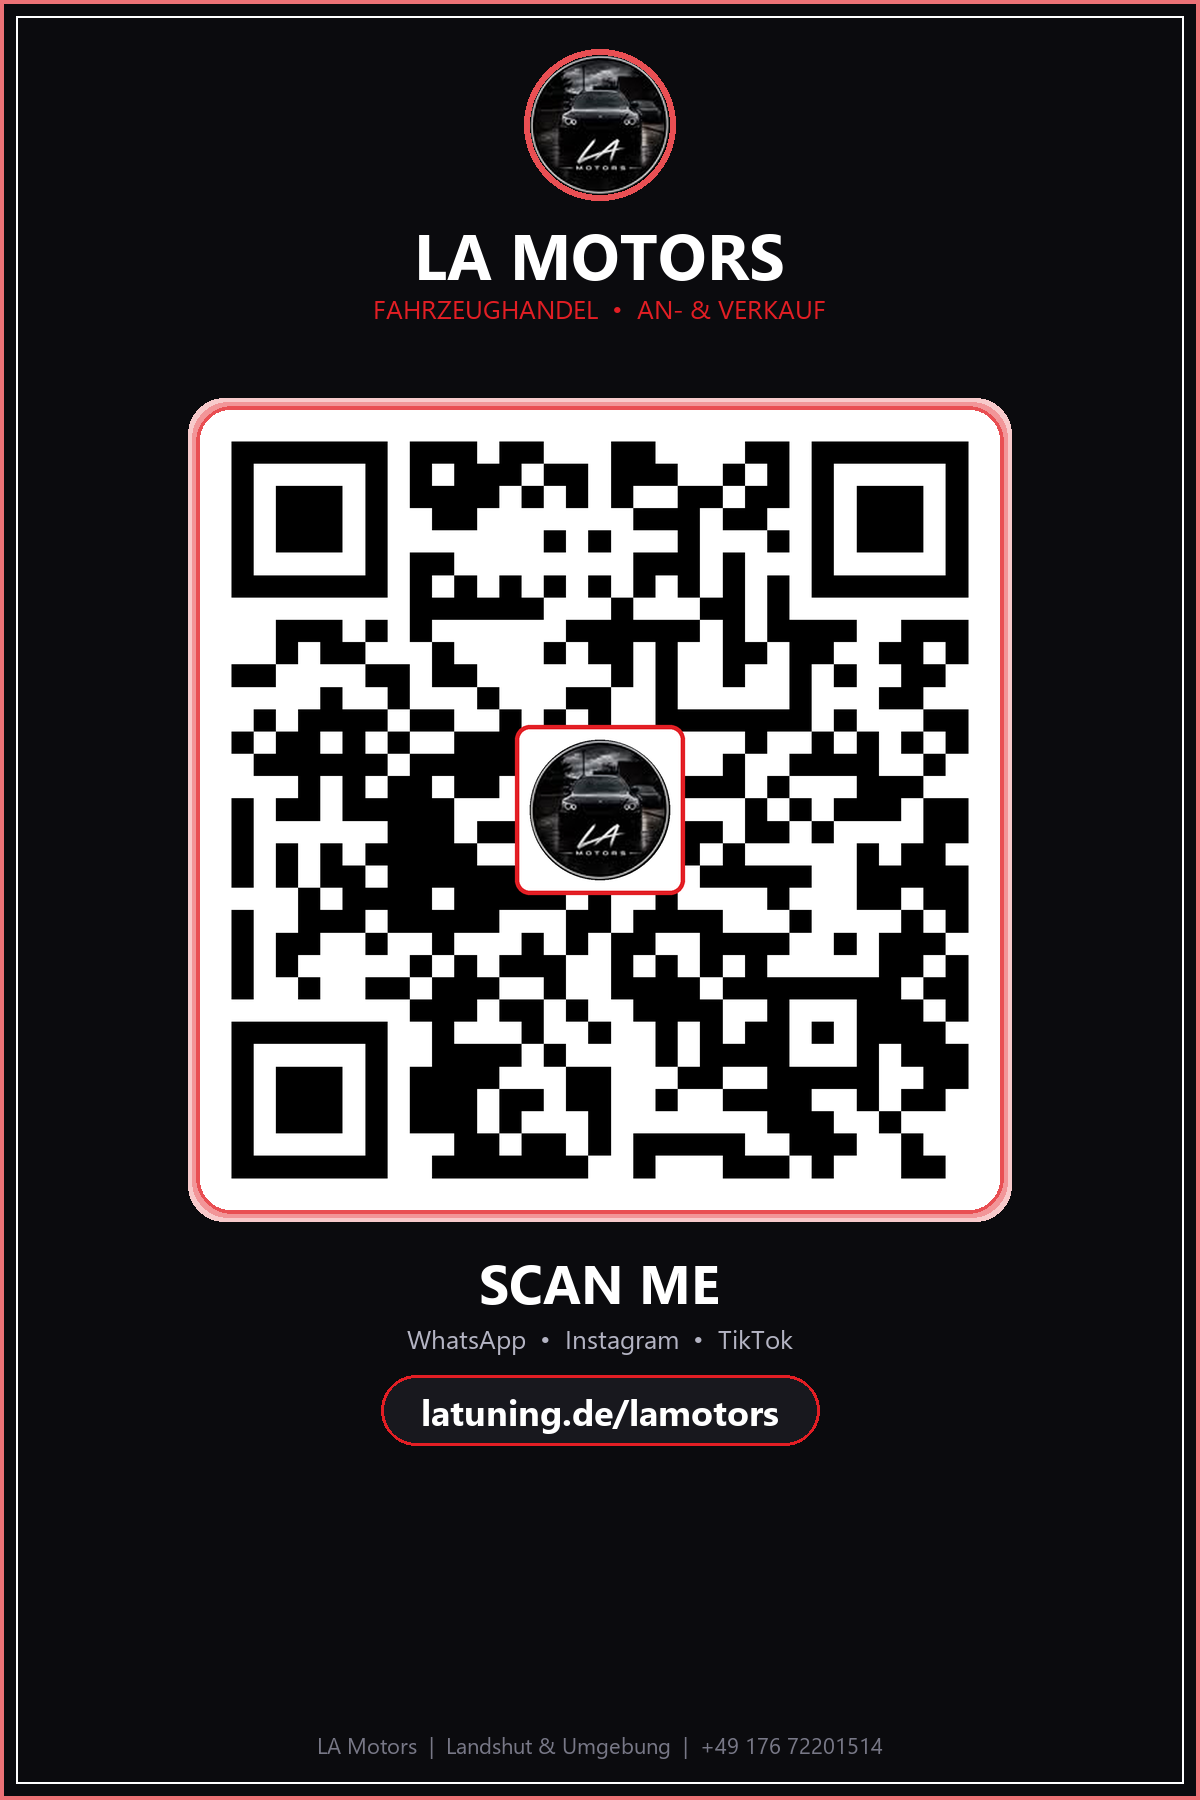
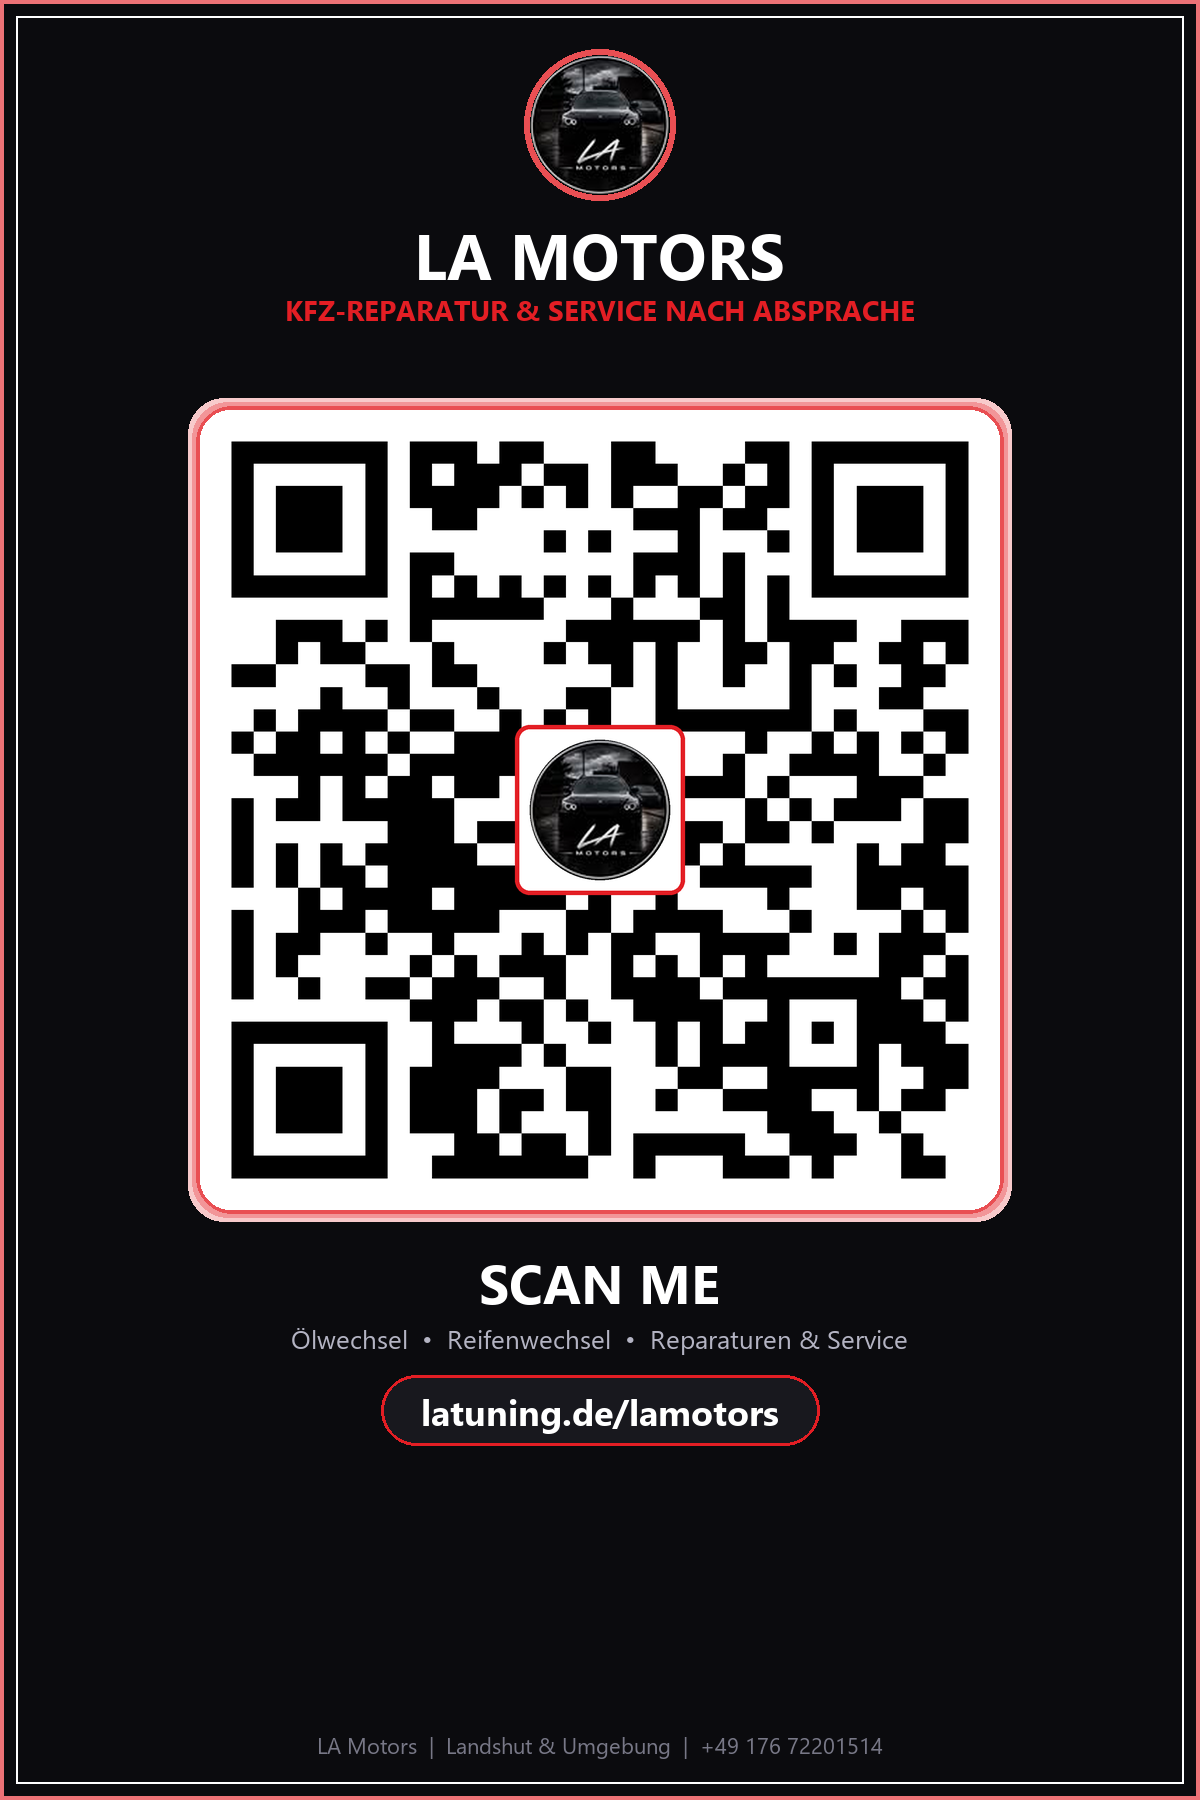
Update LA Motors Linktree: focus on car repairs, oil service, tire change and custom repairs

diff --git a/lamotors.html b/lamotors.html
@@ -3,20 +3,20 @@
 <head>
     <meta charset="UTF-8">
     <meta name="viewport" content="width=device-width, initial-scale=1.0, maximum-scale=5.0">
-    <title>LA Motors | Offizielle Links – Instagram, TikTok &amp; WhatsApp</title>
-    <meta name="description" content="Alle offiziellen Kanäle von LA Motors Landshut auf einen Blick: WhatsApp-Chat, Instagram, TikTok, Fahrzeughandel &amp; direkter Kontakt.">
+    <title>LA Motors | Kfz-Reparaturen &amp; Autoservice nach Absprache</title>
+    <meta name="description" content="Kfz-Reparaturen &amp; Autoservice nach Absprache in Landshut &amp; Umgebung: Inspektion, Ölwechsel, Reifenwechsel &amp; größere Reparaturen. Direkt anfragen via WhatsApp.">
     <meta name="robots" content="noindex, follow">
     <link rel="canonical" href="https://www.latuning.de/lamotors">
 
     <!-- Open Graph / Social Sharing -->
     <meta property="og:type" content="website">
     <meta property="og:url" content="https://www.latuning.de/lamotors">
-    <meta property="og:title" content="LA Motors | Offizielle Links">
-    <meta property="og:description" content="Fahrzeughandel, An- &amp; Verkauf in Landshut &amp; Umgebung. Kontaktiere uns direkt per WhatsApp, Instagram oder TikTok.">
+    <meta property="og:title" content="LA Motors | Kfz-Reparaturen &amp; Service">
+    <meta property="og:description" content="Kfz-Reparaturen &amp; Autoservice nach Absprache in Landshut &amp; Umgebung: Ölwechsel, Reifenwechsel, Inspektion &amp; größere Reparaturen.">
     <meta property="og:image" content="https://www.latuning.de/img/hero.png">
     <meta name="twitter:card" content="summary_large_image">
-    <meta name="twitter:title" content="LA Motors | Offizielle Links">
-    <meta name="twitter:description" content="Alle offiziellen Social-Media- &amp; Kontakt-Kanäle von LA Motors auf einen Blick.">
+    <meta name="twitter:title" content="LA Motors | Kfz-Reparaturen &amp; Service">
+    <meta name="twitter:description" content="Kfz-Reparaturen &amp; Autoservice nach Absprache in Landshut &amp; Umgebung: Ölwechsel, Reifenwechsel &amp; Reparaturen aller Art.">
     <meta name="twitter:image" content="https://www.latuning.de/img/hero.png">
 
     <!-- Favicon -->
@@ -660,13 +660,14 @@
             </h1>
 
             <p class="profile-tagline">
-                Fahrzeughandel, An- &amp; Verkauf &amp; Mobilität in Landshut &amp; Umgebung.
+                Kfz-Reparaturen &amp; Autoservice nach Absprache in Landshut &amp; Umgebung.
             </p>
 
             <div class="profile-badges">
-                <span class="badge-pill highlight">🏎 An- &amp; Verkauf</span>
-                <span class="badge-pill">📍 Landshut &amp; Umgebung</span>
-                <span class="badge-pill">⚡ Partner von LA Tuning</span>
+                <span class="badge-pill highlight">🔧 Reparaturen nach Absprache</span>
+                <span class="badge-pill">🛢 Ölwechsel &amp; Service</span>
+                <span class="badge-pill">🛞 Reifenwechsel</span>
+                <span class="badge-pill">⚙ Auch größere Reparaturen</span>
             </div>
         </header>
 
@@ -674,7 +675,7 @@
         <main class="links-list">
 
             <!-- 1. WHATSAPP (PRIMARY CALL TO ACTION) -->
-            <a href="https://wa.me/4917672201514?text=Hallo%20LA%20Motors%2C%20ich%20habe%20eure%20Links%20gesehen%20und%20interessiere%20mich%20f%C3%BCr%20eure%20Fahrzeuge%20%2F%20Angebote." 
+            <a href="https://wa.me/4917672201514?text=Hallo%20LA%20Motors%2C%20ich%20ben%C3%B6tige%20eine%20Kfz-Reparatur%20%2F%20Service%20(z.%20B.%20%C3%96lwechsel%2C%20Reifen%2C%20Inspektion%20oder%20gr%C3%B6%C3%9Fere%20Reparatur)." 
                class="link-card card-whatsapp" 
                target="_blank" 
                rel="noopener noreferrer">
@@ -685,10 +686,10 @@
                 </div>
                 <div class="card-content">
                     <div class="card-title-row">
-                        <span class="card-title">WhatsApp Chat &amp; Anfragen</span>
+                        <span class="card-title">WhatsApp Reparatur- &amp; Serviceanfrage</span>
                         <span class="card-badge badge-live">Online</span>
                     </div>
-                    <p class="card-subtitle">Fahrzeuganfragen, Ankauf &amp; Termine</p>
+                    <p class="card-subtitle">Ölwechsel, Reifen, Inspektion &amp; Reparaturen anfragen</p>
                 </div>
                 <div class="card-arrow">
                     <svg viewBox="0 0 24 24" width="20" height="20" fill="none" stroke="currentColor" stroke-width="2.5" stroke-linecap="round" stroke-linejoin="round">
@@ -697,7 +698,29 @@
                 </div>
             </a>
 
-            <!-- 2. INSTAGRAM -->
+            <!-- 2. LEISTUNGEN & REPARATUREN -->
+            <a href="https://wa.me/4917672201514?text=Hallo%20LA%20Motors%2C%20ich%20m%C3%B6chte%20mich%20nach%20folgender%20Reparatur%20%2F%20Leistung%20erkundigen%3A" 
+               class="link-card card-partner">
+                <div class="card-icon">
+                    <svg viewBox="0 0 24 24" fill="none" stroke="currentColor" stroke-width="2" stroke-linecap="round" stroke-linejoin="round">
+                        <path d="M14.7 6.3a1 1 0 0 0 0 1.4l1.6 1.6a1 1 0 0 0 1.4 0l3.77-3.77a6 6 0 0 1-7.94 7.94l-6.91 6.91a2.12 2.12 0 0 1-3-3l6.91-6.91a6 6 0 0 1 7.94-7.94l-3.76 3.76z"></path>
+                    </svg>
+                </div>
+                <div class="card-content">
+                    <div class="card-title-row">
+                        <span class="card-title">Reparaturen &amp; Service</span>
+                        <span class="card-badge badge-hot">Nach Absprache</span>
+                    </div>
+                    <p class="card-subtitle">Ölwechsel, Reifen, Service, Bremsen &amp; Großreparaturen</p>
+                </div>
+                <div class="card-arrow">
+                    <svg viewBox="0 0 24 24" width="20" height="20" fill="none" stroke="currentColor" stroke-width="2.5" stroke-linecap="round" stroke-linejoin="round">
+                        <polyline points="9 18 15 12 9 6"></polyline>
+                    </svg>
+                </div>
+            </a>
+
+            <!-- 3. INSTAGRAM -->
             <a href="https://www.instagram.com/la_motors_landshut/" 
                class="link-card card-instagram" 
                target="_blank" 
@@ -713,7 +736,7 @@
                     <div class="card-title-row">
                         <span class="card-title">Instagram (@la_motors_landshut)</span>
                     </div>
-                    <p class="card-subtitle">Aktueller Fahrzeugbestand &amp; Stories</p>
+                    <p class="card-subtitle">Werkstatt-Einblicke, Reparaturen &amp; Stories</p>
                 </div>
                 <div class="card-arrow">
                     <svg viewBox="0 0 24 24" width="20" height="20" fill="none" stroke="currentColor" stroke-width="2.5" stroke-linecap="round" stroke-linejoin="round">
@@ -722,7 +745,7 @@
                 </div>
             </a>
 
-            <!-- 3. TIKTOK -->
+            <!-- 4. TIKTOK -->
             <a href="https://www.tiktok.com/@la_motorss?_r=1&amp;_t=ZG-9ArXKbK0Mm9" 
                class="link-card card-tiktok" 
                target="_blank" 
@@ -736,7 +759,7 @@
                     <div class="card-title-row">
                         <span class="card-title">TikTok (@la_motorss)</span>
                     </div>
-                    <p class="card-subtitle">Fahrzeug-Clips, Sound &amp; Videos</p>
+                    <p class="card-subtitle">Werkstatt-Videos, Reparatur-Clips &amp; Sound</p>
                 </div>
                 <div class="card-arrow">
                     <svg viewBox="0 0 24 24" width="20" height="20" fill="none" stroke="currentColor" stroke-width="2.5" stroke-linecap="round" stroke-linejoin="round">
@@ -745,7 +768,7 @@
                 </div>
             </a>
 
-            <!-- 4. DIREKTER ANRUF -->
+            <!-- 5. DIREKTER ANRUF -->
             <a href="tel:+4917672201514" 
                class="link-card">
                 <div class="card-icon">
@@ -757,7 +780,7 @@
                     <div class="card-title-row">
                         <span class="card-title">Direkt anrufen</span>
                     </div>
-                    <p class="card-subtitle">+49 176 72201514 (Schneller Kontakt)</p>
+                    <p class="card-subtitle">+49 176 72201514 (Terminabsprache)</p>
                 </div>
                 <div class="card-arrow">
                     <svg viewBox="0 0 24 24" width="20" height="20" fill="none" stroke="currentColor" stroke-width="2.5" stroke-linecap="round" stroke-linejoin="round">
@@ -766,9 +789,9 @@
                 </div>
             </a>
 
-            <!-- 5. PARTNER: LA TUNING -->
+            <!-- 6. PARTNER: LA TUNING -->
             <a href="https://www.latuning.de/" 
-               class="link-card card-partner">
+               class="link-card">
                 <div class="card-icon">
                     <svg viewBox="0 0 24 24" fill="none" stroke="currentColor" stroke-width="2.5" stroke-linecap="round" stroke-linejoin="round">
                         <polygon points="13 2 3 14 12 14 11 22 21 10 12 10 13 2"></polygon>
@@ -776,8 +799,7 @@
                 </div>
                 <div class="card-content">
                     <div class="card-title-row">
-                        <span class="card-title">LA Tuning | Leistungssteigerung</span>
-                        <span class="card-badge badge-hot">Partner</span>
+                        <span class="card-title">Partner: LA Tuning</span>
                     </div>
                     <p class="card-subtitle">Chiptuning, Stage 1/2 &amp; Fahrzeug-Konfigurator</p>
                 </div>
@@ -797,9 +819,10 @@
                     <path d="M21 10c0 7-9 13-9 13s-9-6-9-13a9 9 0 0 1-18 0z"></path>
                     <circle cx="12" cy="10" r="3"></circle>
                 </svg>
-                Standort Landshut &amp; Umgebung
+                Kfz-Service &amp; Reparatur nach Absprache
             </div>
             <p class="info-meta">
+                Landshut &amp; Umgebung<br>
                 Telefon &amp; WhatsApp: <a href="tel:+4917672201514">+49 176 72201514</a><br>
                 E-Mail: <a href="mailto:la_tuning@outlook.com">la_tuning@outlook.com</a>
             </p>

diff --git a/lamotors/index.html b/lamotors/index.html
@@ -3,20 +3,20 @@
 <head>
     <meta charset="UTF-8">
     <meta name="viewport" content="width=device-width, initial-scale=1.0, maximum-scale=5.0">
-    <title>LA Motors | Offizielle Links – Instagram, TikTok &amp; WhatsApp</title>
-    <meta name="description" content="Alle offiziellen Kanäle von LA Motors Landshut auf einen Blick: WhatsApp-Chat, Instagram, TikTok, Fahrzeughandel &amp; direkter Kontakt.">
+    <title>LA Motors | Kfz-Reparaturen &amp; Autoservice nach Absprache</title>
+    <meta name="description" content="Kfz-Reparaturen &amp; Autoservice nach Absprache in Landshut &amp; Umgebung: Inspektion, Ölwechsel, Reifenwechsel &amp; größere Reparaturen. Direkt anfragen via WhatsApp.">
     <meta name="robots" content="noindex, follow">
     <link rel="canonical" href="https://www.latuning.de/lamotors">
 
     <!-- Open Graph / Social Sharing -->
     <meta property="og:type" content="website">
     <meta property="og:url" content="https://www.latuning.de/lamotors">
-    <meta property="og:title" content="LA Motors | Offizielle Links">
-    <meta property="og:description" content="Fahrzeughandel, An- &amp; Verkauf in Landshut &amp; Umgebung. Kontaktiere uns direkt per WhatsApp, Instagram oder TikTok.">
+    <meta property="og:title" content="LA Motors | Kfz-Reparaturen &amp; Service">
+    <meta property="og:description" content="Kfz-Reparaturen &amp; Autoservice nach Absprache in Landshut &amp; Umgebung: Ölwechsel, Reifenwechsel, Inspektion &amp; größere Reparaturen.">
     <meta property="og:image" content="https://www.latuning.de/img/hero.png">
     <meta name="twitter:card" content="summary_large_image">
-    <meta name="twitter:title" content="LA Motors | Offizielle Links">
-    <meta name="twitter:description" content="Alle offiziellen Social-Media- &amp; Kontakt-Kanäle von LA Motors auf einen Blick.">
+    <meta name="twitter:title" content="LA Motors | Kfz-Reparaturen &amp; Service">
+    <meta name="twitter:description" content="Kfz-Reparaturen &amp; Autoservice nach Absprache in Landshut &amp; Umgebung: Ölwechsel, Reifenwechsel &amp; Reparaturen aller Art.">
     <meta name="twitter:image" content="https://www.latuning.de/img/hero.png">
 
     <!-- Favicon -->
@@ -660,13 +660,14 @@
             </h1>
 
             <p class="profile-tagline">
-                Fahrzeughandel, An- &amp; Verkauf &amp; Mobilität in Landshut &amp; Umgebung.
+                Kfz-Reparaturen &amp; Autoservice nach Absprache in Landshut &amp; Umgebung.
             </p>
 
             <div class="profile-badges">
-                <span class="badge-pill highlight">🏎 An- &amp; Verkauf</span>
-                <span class="badge-pill">📍 Landshut &amp; Umgebung</span>
-                <span class="badge-pill">⚡ Partner von LA Tuning</span>
+                <span class="badge-pill highlight">🔧 Reparaturen nach Absprache</span>
+                <span class="badge-pill">🛢 Ölwechsel &amp; Service</span>
+                <span class="badge-pill">🛞 Reifenwechsel</span>
+                <span class="badge-pill">⚙ Auch größere Reparaturen</span>
             </div>
         </header>
 
@@ -674,7 +675,7 @@
         <main class="links-list">
 
             <!-- 1. WHATSAPP (PRIMARY CALL TO ACTION) -->
-            <a href="https://wa.me/4917672201514?text=Hallo%20LA%20Motors%2C%20ich%20habe%20eure%20Links%20gesehen%20und%20interessiere%20mich%20f%C3%BCr%20eure%20Fahrzeuge%20%2F%20Angebote." 
+            <a href="https://wa.me/4917672201514?text=Hallo%20LA%20Motors%2C%20ich%20ben%C3%B6tige%20eine%20Kfz-Reparatur%20%2F%20Service%20(z.%20B.%20%C3%96lwechsel%2C%20Reifen%2C%20Inspektion%20oder%20gr%C3%B6%C3%9Fere%20Reparatur)." 
                class="link-card card-whatsapp" 
                target="_blank" 
                rel="noopener noreferrer">
@@ -685,10 +686,10 @@
                 </div>
                 <div class="card-content">
                     <div class="card-title-row">
-                        <span class="card-title">WhatsApp Chat &amp; Anfragen</span>
+                        <span class="card-title">WhatsApp Reparatur- &amp; Serviceanfrage</span>
                         <span class="card-badge badge-live">Online</span>
                     </div>
-                    <p class="card-subtitle">Fahrzeuganfragen, Ankauf &amp; Termine</p>
+                    <p class="card-subtitle">Ölwechsel, Reifen, Inspektion &amp; Reparaturen anfragen</p>
                 </div>
                 <div class="card-arrow">
                     <svg viewBox="0 0 24 24" width="20" height="20" fill="none" stroke="currentColor" stroke-width="2.5" stroke-linecap="round" stroke-linejoin="round">
@@ -697,7 +698,29 @@
                 </div>
             </a>
 
-            <!-- 2. INSTAGRAM -->
+            <!-- 2. LEISTUNGEN & REPARATUREN -->
+            <a href="https://wa.me/4917672201514?text=Hallo%20LA%20Motors%2C%20ich%20m%C3%B6chte%20mich%20nach%20folgender%20Reparatur%20%2F%20Leistung%20erkundigen%3A" 
+               class="link-card card-partner">
+                <div class="card-icon">
+                    <svg viewBox="0 0 24 24" fill="none" stroke="currentColor" stroke-width="2" stroke-linecap="round" stroke-linejoin="round">
+                        <path d="M14.7 6.3a1 1 0 0 0 0 1.4l1.6 1.6a1 1 0 0 0 1.4 0l3.77-3.77a6 6 0 0 1-7.94 7.94l-6.91 6.91a2.12 2.12 0 0 1-3-3l6.91-6.91a6 6 0 0 1 7.94-7.94l-3.76 3.76z"></path>
+                    </svg>
+                </div>
+                <div class="card-content">
+                    <div class="card-title-row">
+                        <span class="card-title">Reparaturen &amp; Service</span>
+                        <span class="card-badge badge-hot">Nach Absprache</span>
+                    </div>
+                    <p class="card-subtitle">Ölwechsel, Reifen, Service, Bremsen &amp; Großreparaturen</p>
+                </div>
+                <div class="card-arrow">
+                    <svg viewBox="0 0 24 24" width="20" height="20" fill="none" stroke="currentColor" stroke-width="2.5" stroke-linecap="round" stroke-linejoin="round">
+                        <polyline points="9 18 15 12 9 6"></polyline>
+                    </svg>
+                </div>
+            </a>
+
+            <!-- 3. INSTAGRAM -->
             <a href="https://www.instagram.com/la_motors_landshut/" 
                class="link-card card-instagram" 
                target="_blank" 
@@ -713,7 +736,7 @@
                     <div class="card-title-row">
                         <span class="card-title">Instagram (@la_motors_landshut)</span>
                     </div>
-                    <p class="card-subtitle">Aktueller Fahrzeugbestand &amp; Stories</p>
+                    <p class="card-subtitle">Werkstatt-Einblicke, Reparaturen &amp; Stories</p>
                 </div>
                 <div class="card-arrow">
                     <svg viewBox="0 0 24 24" width="20" height="20" fill="none" stroke="currentColor" stroke-width="2.5" stroke-linecap="round" stroke-linejoin="round">
@@ -722,7 +745,7 @@
                 </div>
             </a>
 
-            <!-- 3. TIKTOK -->
+            <!-- 4. TIKTOK -->
             <a href="https://www.tiktok.com/@la_motorss?_r=1&amp;_t=ZG-9ArXKbK0Mm9" 
                class="link-card card-tiktok" 
                target="_blank" 
@@ -736,7 +759,7 @@
                     <div class="card-title-row">
                         <span class="card-title">TikTok (@la_motorss)</span>
                     </div>
-                    <p class="card-subtitle">Fahrzeug-Clips, Sound &amp; Videos</p>
+                    <p class="card-subtitle">Werkstatt-Videos, Reparatur-Clips &amp; Sound</p>
                 </div>
                 <div class="card-arrow">
                     <svg viewBox="0 0 24 24" width="20" height="20" fill="none" stroke="currentColor" stroke-width="2.5" stroke-linecap="round" stroke-linejoin="round">
@@ -745,7 +768,7 @@
                 </div>
             </a>
 
-            <!-- 4. DIREKTER ANRUF -->
+            <!-- 5. DIREKTER ANRUF -->
             <a href="tel:+4917672201514" 
                class="link-card">
                 <div class="card-icon">
@@ -757,7 +780,7 @@
                     <div class="card-title-row">
                         <span class="card-title">Direkt anrufen</span>
                     </div>
-                    <p class="card-subtitle">+49 176 72201514 (Schneller Kontakt)</p>
+                    <p class="card-subtitle">+49 176 72201514 (Terminabsprache)</p>
                 </div>
                 <div class="card-arrow">
                     <svg viewBox="0 0 24 24" width="20" height="20" fill="none" stroke="currentColor" stroke-width="2.5" stroke-linecap="round" stroke-linejoin="round">
@@ -766,9 +789,9 @@
                 </div>
             </a>
 
-            <!-- 5. PARTNER: LA TUNING -->
+            <!-- 6. PARTNER: LA TUNING -->
             <a href="https://www.latuning.de/" 
-               class="link-card card-partner">
+               class="link-card">
                 <div class="card-icon">
                     <svg viewBox="0 0 24 24" fill="none" stroke="currentColor" stroke-width="2.5" stroke-linecap="round" stroke-linejoin="round">
                         <polygon points="13 2 3 14 12 14 11 22 21 10 12 10 13 2"></polygon>
@@ -776,8 +799,7 @@
                 </div>
                 <div class="card-content">
                     <div class="card-title-row">
-                        <span class="card-title">LA Tuning | Leistungssteigerung</span>
-                        <span class="card-badge badge-hot">Partner</span>
+                        <span class="card-title">Partner: LA Tuning</span>
                     </div>
                     <p class="card-subtitle">Chiptuning, Stage 1/2 &amp; Fahrzeug-Konfigurator</p>
                 </div>
@@ -797,9 +819,10 @@
                     <path d="M21 10c0 7-9 13-9 13s-9-6-9-13a9 9 0 0 1-18 0z"></path>
                     <circle cx="12" cy="10" r="3"></circle>
                 </svg>
-                Standort Landshut &amp; Umgebung
+                Kfz-Service &amp; Reparatur nach Absprache
             </div>
             <p class="info-meta">
+                Landshut &amp; Umgebung<br>
                 Telefon &amp; WhatsApp: <a href="tel:+4917672201514">+49 176 72201514</a><br>
                 E-Mail: <a href="mailto:la_tuning@outlook.com">la_tuning@outlook.com</a>
             </p>
